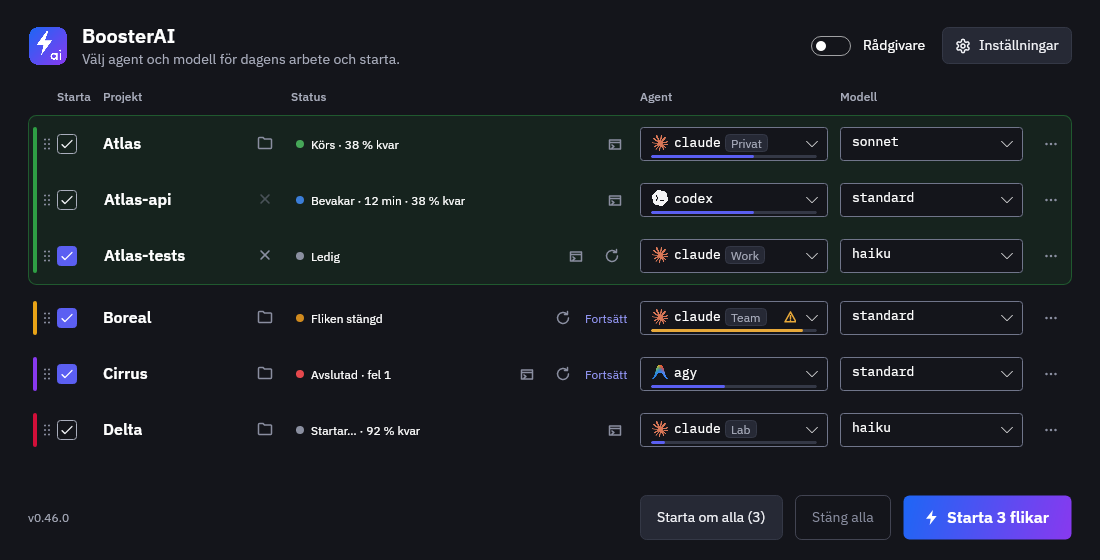
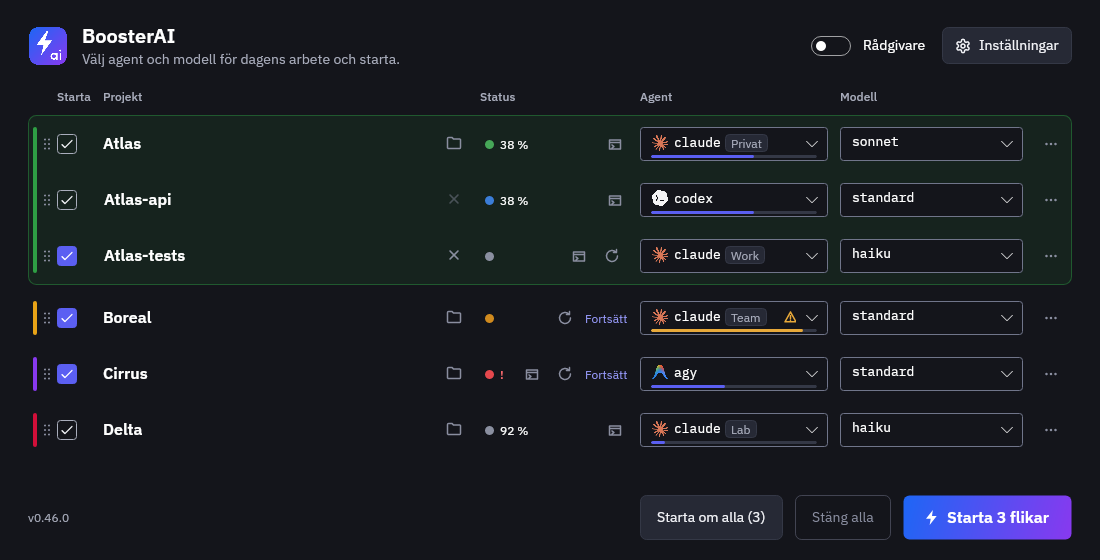
Compact status column: a status dot with details on hover (#209)
The Status column is now a narrow fixed column (160 px) and the project
column takes all the free width. Each row shows a coloured status dot,
followed by the remaining plan share ("38 %" / "38%", warning colour from
80 % used) on live tabs with a known limit, "!" on error rows (CLI exited
with an error, missing, not started, denied, lost) or "…" while closing
or waiting to restart. The show-in-terminal icon (#213), restart, Continue
and Start stay at the column's right edge. Hover, click or Enter/Space
opens the status popup as before; the accessible name keeps the full
status with the remaining share.

--check-clipping also reports a status cell whose indicator and actions
do not fit side by side. README, DETAILS, screenshots and verification
images updated.

diff --git a/docs/index.html b/docs/index.html
@@ -770,7 +770,7 @@
             <div style="width: 20px;"></div>
           </div>
           <div class="showcase-media-container">
-            <img id="previewImg" class="showcase-media" src="screenshot-dark.png?v=20261125-202" alt="BoosterAI with six AI CLIs selected across example project tabs, two Claude tabs showing their account label and usage meter">
+            <img id="previewImg" class="showcase-media" src="screenshot-dark.png?v=20261125-209" alt="BoosterAI with six AI CLIs selected across example project tabs, two Claude tabs showing their account label and usage meter">
           </div>
         </div>
       </div>
@@ -1010,8 +1010,8 @@
       };
       img.alt = descriptions[mode] || 'BoosterAI app screenshot';
       setTimeout(() => {
-        if (mode === 'dark') img.src = 'screenshot-dark.png?v=20261125-202';
-        else if (mode === 'light') img.src = 'screenshot.png?v=20261125-202';
+        if (mode === 'dark') img.src = 'screenshot-dark.png?v=20261125-209';
+        else if (mode === 'light') img.src = 'screenshot.png?v=20261125-209';
         else if (mode === 'settings') img.src = 'settings-general.png?v=20261124-195';
         else if (mode === 'appearance') img.src = 'settings-appearance.png?v=20261124-195';
         else if (mode === 'memory') img.src = 'settings-ram.png?v=20261124-195';

diff --git a/src/BoosterAI/ViewModels.cs b/src/BoosterAI/ViewModels.cs
@@ -97,7 +97,7 @@ public sealed class TabViewModel : Observable
         PropertyChanged += (_, e) =>
         {
             if (e.PropertyName is nameof(Name) or nameof(Llm) or nameof(StatusText) or nameof(Account)) Raise(nameof(PeekHeader));
-            if (e.PropertyName is nameof(StatusText)) Raise(nameof(StatusDisplay));
+            if (e.PropertyName is nameof(StatusText)) { Raise(nameof(StatusDisplay)); RaiseStatusIndicator(); }
             if (e.PropertyName is nameof(StatusText) or nameof(StatusTip)) { Raise(nameof(PeekDetail)); Raise(nameof(HasPeekDetail)); }
         };
     }
@@ -391,6 +391,7 @@ public sealed class TabViewModel : Observable
         Raise(nameof(AgentChoices));
         Raise(nameof(SelectedAgentChoice));
         foreach (var n in new[] { nameof(HasPeekLimit), nameof(PeekLimitWarn), nameof(PeekLimitRows), nameof(PeekLimitAge), nameof(HasPeekLimitAge), nameof(PeekLimitName), nameof(StatusDisplay), nameof(PeekLimitMissing), nameof(HasPeekLimitMissing) }) Raise(n);
+        RaiseStatusIndicator();
     }
     public IReadOnlyList<string> Models => Catalog.ModelsFor(_llm);
     public bool IsAi => _llm != Catalog.ShellOnly;
@@ -587,6 +588,7 @@ public sealed class TabViewModel : Observable
     private void RaiseRestart()
     {
         foreach (var n in new[] { nameof(IsChanged), nameof(CanRestart), nameof(RestartTip), nameof(PendingRestart), nameof(StatusActionName), nameof(CanContinueClosed), nameof(CanReloadOrchestra), nameof(ShowReload), nameof(ReloadName), nameof(CanStart), nameof(ShowStatusColumn) }) Raise(n);
+        RaiseStatusIndicator();
         _owner.RestartableChanged();
     }
     /// <summary>The programs of the commands agy denied (state Denied).</summary>
@@ -628,16 +630,40 @@ public sealed class TabViewModel : Observable
     public string PeekLimitMissing => _llm != "agy" || !_owner.AccountLimitsEnabled || PeekLimit is not null || !ShowStatusRemaining ? ""
         : Loc.Get(Session is { } session && Track is { } track && session.HasAgySettings(track.Id) ? "account.limit.missing.agy.pending" : "account.limit.missing.agy.restart");
     public bool HasPeekLimitMissing => PeekLimitMissing.Length > 0;
-    public string StatusActionName => Loc.Format("peek.action", Name, StatusTip);
+    /// <summary>The status indicator's accessible name: the full status (tip), with the remaining share when the indicator shows it (#209).</summary>
+    public string StatusActionName => Loc.Format("peek.action", Name, WithRemaining(StatusTip));
 
     /// <summary>
-    /// The status column's visible text (#207): on normal live/starting/idle tabs, appends remaining quota percentage
-    /// ("Körs · 38 % kvar" / "Running · 38% left") when the tab's agent/account has a known limit; closed, error,
-    /// changed-choice and auto-cleared rows keep their full status/action text unclipped beside ↻/Continue.
+    /// The full status with the remaining quota (#207): on normal live/starting/idle tabs with a known limit
+    /// "Körs · 38 % kvar" / "Running · 38% left"; other rows keep their plain status. The main list shows only the
+    /// compact <see cref="StatusIndicatorText"/> (#209); this text is what it stands for.
     /// </summary>
-    public string StatusDisplay => StatusText is { Length: > 0 } text && ShowStatusRemaining && PeekLimit is { } limit
-        ? Loc.Format("tabstate.withRemaining", text, limit.RemainingCaption)
-        : StatusText;
+    public string StatusDisplay => WithRemaining(StatusText);
+
+    private string WithRemaining(string status) => status is { Length: > 0 } && ShowStatusRemaining && PeekLimit is { } limit
+        ? Loc.Format("tabstate.withRemaining", status, limit.RemainingCaption)
+        : status;
+
+    /// <summary>
+    /// The compact status column's text beside the status dot (#209): the remaining share of the tightest known window on
+    /// live, idle, watching and starting tabs ("38 %" / "38%"), "!" on an error row so colour is not the only cue, "…" while
+    /// the tab closes or waits for idle to restart, and nothing otherwise. The full status is in the popup and the accessible name.
+    /// </summary>
+    public string StatusIndicatorText =>
+        _closeProgress is not null || (_state is TabState.Running && PendingRestart) ? "…"
+        : IsStatusError ? "!"
+        : ShowStatusRemaining && PeekLimit is { } limit ? limit.RemainingShort
+        : "";
+    public bool HasStatusIndicatorText => StatusIndicatorText.Length > 0;
+    /// <summary>A failed row: the CLI exited with an error, is missing, did not start, was denied or the tab was lost (#209).</summary>
+    public bool IsStatusError => _closeProgress is null && (IsExitError || _state is TabState.CliMissing or TabState.NotStarted or TabState.Lost or TabState.Denied);
+    /// <summary>The remaining share is shown in the warning colour from <see cref="LimitIndicator.WarnAt"/> percent used.</summary>
+    public bool StatusIndicatorWarn => !IsStatusError && StatusIndicatorText.Length > 0 && StatusIndicatorText != "…" && PeekLimit?.Warn == true;
+
+    private void RaiseStatusIndicator()
+    {
+        foreach (var n in new[] { nameof(StatusIndicatorText), nameof(HasStatusIndicatorText), nameof(IsStatusError), nameof(StatusIndicatorWarn), nameof(StatusActionName) }) Raise(n);
+    }
 
     private bool ShowStatusRemaining => _closeProgress is null && _state switch
     {

diff --git a/tests/BoosterAI.Tests/AccountLimitsTests.cs b/tests/BoosterAI.Tests/AccountLimitsTests.cs
@@ -1118,4 +1118,88 @@ public class AccountLimitsTests
         }
         finally { Loc.Use(previous); }
     }
+
+    [Fact]
+    public void CompactStatusIndicatorShowsRemainingPercentAnErrorCueOrNothing()
+    {
+        var previous = Loc.Language;
+        try
+        {
+            var r = BoosterAI.Tests.UiSession.Run(() =>
+            {
+                Loc.Use("sv");
+                var now = DateTimeOffset.Now;
+                var used = 95.0;
+                var vm = new MainViewModel(new AppConfig
+                {
+                    Accounts = [new() { Id = "claude-work", Agent = "claude", Name = "Work", Directory = "~/.claude-work" }],
+                    Tabs =
+                    [
+                        new() { Name = "A", Directory = "/srv/a", Llm = "claude" },
+                        new() { Name = "B", Directory = "/srv/b", Llm = "claude", Account = "claude-work" },
+                        new() { Name = "C", Directory = "/srv/c", Llm = "aider" },
+                    ],
+                });
+                vm.LimitsClock = () => now;
+                vm.AccountLimitsEnabled = true;
+                vm.ReadAccountLimits = (_, _, dir) => Task.FromResult(
+                    dir is null ? new AccountLimits(null, new LimitWindow(used, now.AddDays(3), 10080), null, now) : AccountLimits.Unknown);
+                var (a, b, c) = (vm.Tabs[0], vm.Tabs[1], vm.Tabs[2]);
+                foreach (var t in vm.Tabs) t.SetState(TabState.Running, null, activity: BoosterAI.Activity.Busy);
+                Assert.True(vm.RefreshAccountLimitsAsync(force: true).IsCompletedSuccessfully);
+                Avalonia.Threading.Dispatcher.UIThread.RunJobs();
+
+                var warn = (a.StatusIndicatorText, a.StatusIndicatorWarn, a.IsStatusError, a.StatusActionName);
+                var unknown = (b.StatusIndicatorText, b.HasStatusIndicatorText);
+                var aider = (c.StatusIndicatorText, c.HasStatusIndicatorText);
+                Loc.Use("en");
+                var warnEn = (a.StatusIndicatorText, a.StatusActionName);
+                Loc.Use("sv");
+
+                used = 0.0;
+                Assert.True(vm.RefreshAccountLimitsAsync(force: true).IsCompletedSuccessfully);
+                Avalonia.Threading.Dispatcher.UIThread.RunJobs();
+                var reset = (a.StatusIndicatorText, a.StatusIndicatorWarn);
+
+                a.PendingRestart = true;
+                var pending = (a.StatusIndicatorText, a.StatusIndicatorWarn, a.IsStatusError);
+                a.PendingRestart = false;
+                a.SetCloseProgress("Sparar…");
+                var closing = (a.StatusIndicatorText, a.IsStatusError);
+                a.SetCloseProgress(null);
+
+                a.SetState(TabState.Closed, null);
+                var closed = (a.StatusIndicatorText, a.HasStatusIndicatorText, a.IsStatusError);
+                a.SetState(TabState.CliExited, 0);
+                var exitedOk = a.StatusIndicatorText;
+                a.SetState(TabState.CliExited, 1);
+                var exitedErr = (a.StatusIndicatorText, a.IsStatusError, a.StatusIndicatorWarn);
+                a.SetState(TabState.Denied, null, ["git"]);
+                var denied = (a.StatusIndicatorText, a.IsStatusError);
+                a.SetState(TabState.Lost, null);
+                var lost = (a.StatusIndicatorText, a.IsStatusError);
+                a.SetState(TabState.CliMissing, null);
+                var missing = (a.StatusIndicatorText, a.IsStatusError);
+                return (warn, warnEn, unknown, aider, reset, pending, closing, closed, exitedOk, exitedErr, denied, lost, missing);
+            });
+
+            Assert.Equal(("5 %", true, false), (r.warn.StatusIndicatorText, r.warn.StatusIndicatorWarn, r.warn.IsStatusError));
+            // The accessible name keeps the full status with the remaining share.
+            Assert.Contains("Körs · 5 % kvar", r.warn.StatusActionName);
+            Assert.Equal("5%", r.warnEn.StatusIndicatorText);
+            Assert.Contains("Running · 5% left", r.warnEn.StatusActionName);
+            Assert.Equal(("", false), r.unknown);
+            Assert.Equal(("", false), r.aider);
+            Assert.Equal(("100 %", false), r.reset);
+            Assert.Equal(("…", false, false), r.pending);
+            Assert.Equal(("…", false), r.closing);
+            Assert.Equal(("", false, false), r.closed);
+            Assert.Equal("100 %", r.exitedOk);
+            Assert.Equal(("!", true, false), r.exitedErr);
+            Assert.Equal(("!", true), r.denied);
+            Assert.Equal(("!", true), r.lost);
+            Assert.Equal(("!", true), r.missing);
+        }
+        finally { Loc.Use(previous); }
+    }
 }

diff --git a/src/BoosterAI/MainWindow.axaml.cs b/src/BoosterAI/MainWindow.axaml.cs
@@ -24,16 +24,18 @@ public partial class MainWindow : Window
     }
 
     /// <summary>
-    /// Stripe, handle, Start, project, status, agent, model, orchestra, ⋯. Project and status share the free room (2.7:5 since the show-terminal icon, #213), the
-    /// status a little more (its longest texts must fit at the default width); agent, model and orchestra are fixed,
-    /// and the orchestra column is 0 while no visible row can use it (#152). The row's ⋯ stays last, at the far right (#196).
+    /// Stripe, handle, Start, project, status, agent, model, orchestra, ⋯. The project takes all the free room; the status is a
+    /// narrow fixed column with a compact indicator and the row actions, its details in the popup (#209); agent, model and
+    /// orchestra are fixed, and the orchestra column is 0 while no visible row can use it (#152). The row's ⋯ stays last (#196).
     /// </summary>
     internal static string ProjectColumns(double width, bool orchestra)
     {
         var compact = width is > 0 and < 1050;
         var fixedColumns = compact ? "150,140" : "200,195";
-        return $"4,20,46,2.7*,5*,{fixedColumns},{(orchestra ? 168 : 0)},{MoreColumnWidth}";
+        return $"4,20,46,*,{StatusColumnWidth},{fixedColumns},{(orchestra ? 168 : 0)},{MoreColumnWidth}";
     }
+
+    internal const int StatusColumnWidth = 160;
 
     internal const int MoreColumnWidth = 32;
 

diff --git a/src/BoosterAI/Screenshot.cs b/src/BoosterAI/Screenshot.cs
@@ -307,6 +307,19 @@ internal static class Screenshot
                 .Where(t => t.IsEffectivelyVisible && t.TextTrimming != Avalonia.Media.TextTrimming.None
                     && t.TextLayout.TextLines.Any(l => l.HasCollapsed))
                 .Select(t => t.Text).ToList();
+            // The compact status column (#209) clips its cell: the indicator and the row actions must fit in it side by side.
+            // Each part is measured unconstrained, as the cell's star column would otherwise squeeze the indicator to nothing.
+            foreach (var cell in window.GetVisualDescendants().OfType<Grid>().Where(g => g.Classes.Contains("status-cell") && g.IsEffectivelyVisible).ToList())
+            {
+                var needed = 0.0;
+                foreach (var part in cell.Children.Where(c => c.IsVisible))
+                {
+                    part.Measure(Size.Infinity);
+                    needed += part.DesiredSize.Width;
+                }
+                if (needed > cell.Bounds.Width + 0.5)
+                    clipped.Add($"status column ({needed:0} > {cell.Bounds.Width:0} px): {(cell.DataContext as TabViewModel)?.StatusText}");
+            }
             foreach (var text in clipped) Console.WriteLine("clipped: " + text);
             if (clipped.Count > 0) return 3;
         }

diff --git a/tests/BoosterAI.Tests/MainListTests.cs b/tests/BoosterAI.Tests/MainListTests.cs
@@ -84,10 +84,11 @@ public sealed class MainListTests : IDisposable
     [Fact]
     public void ProjectColumnsHideTheOrchestraAndKeepTheFixedWidths()
     {
-        // The row's ⋯ (#196) stays last, at the far right, whether or not the orchestra column shows.
-        Assert.Equal("4,20,46,2.7*,5*,200,195,168,32", MainWindow.ProjectColumns(1100, orchestra: true));
-        Assert.Equal("4,20,46,2.7*,5*,200,195,0,32", MainWindow.ProjectColumns(1100, orchestra: false));
-        Assert.EndsWith(",168,32", MainWindow.ProjectColumns(900, orchestra: true));
+        // The project takes all the free room and the status is a narrow fixed column (#209); the row's ⋯ (#196) stays
+        // last, at the far right, whether or not the orchestra column shows.
+        Assert.Equal("4,20,46,*,160,200,195,168,32", MainWindow.ProjectColumns(1100, orchestra: true));
+        Assert.Equal("4,20,46,*,160,200,195,0,32", MainWindow.ProjectColumns(1100, orchestra: false));
+        Assert.Equal("4,20,46,*,160,150,140,168,32", MainWindow.ProjectColumns(900, orchestra: true));
     }
 
     [Fact]

diff --git a/src/BoosterAI/AccountLimits.cs b/src/BoosterAI/AccountLimits.cs
@@ -66,6 +66,9 @@ public sealed record LimitIndicator(string Caption, bool Warn, string Tip, strin
     /// <summary>Localized remaining text for the status column (#207): "38 % kvar" (sv) or "38% left" (en).</summary>
     public string RemainingCaption => Loc.Format("account.limit.remaining", Loc.Number(RemainingPercent, "0"));
 
+    /// <summary>The compact status column's remaining share (#209): "38 %" (sv) or "38%" (en).</summary>
+    public string RemainingShort => Loc.Format("account.limit.chip", Loc.Number(RemainingPercent, "0"));
+
     public static LimitIndicator? For(AccountLimits limits, DateTimeOffset now)
     {
         limits = limits.AsOf(now);

diff --git a/docs/DETAILS.md b/docs/DETAILS.md
@@ -32,7 +32,7 @@ Every account row shows its login status, also the default account (#192): *Logg
 
 Every account row also shows the plan limits BoosterAI could read for the account (#199): a thin bar and *37 % used · resets in 4h 20m (14:20)* for the short window (*5 h*) and the *Week*, credits for Codex (*Credits: 120*, *unlimited* or *none*), and *updated 8m ago* for when the agent reported the values (see [Times](#times)). A window without a value, or an account nothing has been read for yet, shows *Unknown* without a bar, never a guessed 0 %; a window that was read but whose reset time has passed since shows *Probably reset* (#214). The values are read when the Accounts page opens and when the Settings window is activated, like the login status, in the tab's login shell (`bash -lic`, through `wsl.exe` on Windows) with a limit of about 10 seconds. BoosterAI only reads local files: it never contacts the provider, reads no credentials or tokens, and saves nothing beyond Claude's small snapshot below. The read prints one projected JSON line (window percentages, reset times, window lengths, credits, time), never file contents. It needs `python3` in that Linux; without it everything is *Unknown*.
 
-The main window shows the same reading without reading more (#200, #205, #206): one reading per account/agent is shared between Settings and the main window, read when the main window is activated or a monitored tab changes activity (at most every 5 seconds), every 30 seconds while it is visible, and once at start, for the agents that tabs use (Claude, Codex and AGY). Installed Claude, Codex and AGY agents that no tab uses are read too, with all their accounts, at start and then at most every 5 minutes (#214), so the Agent list also knows an account no tab uses; before the first setup check every one of them counts as installed. In the Agent box's dropdown, each Claude, Codex or AGY entry with a known window ends with the higher of the 5 h and weekly use (*62 %*); from 80 % it also has a warning icon. The closed box shows a thin usage meter along its bottom edge for the tab's account/agent (#202, #206), always while a window is known and filled to the same higher use, so it fills up before any warning; from 80 % the meter turns to the warning colour and a small warning icon appears beside the agent (accessible name *close to the limit*), so colour is never the only cue. The meter and the icon have the same tooltip: both windows with their use and when they reset, and *updated 8m ago*. The meter lies over the box's padding, so neither the box nor the row grows, and every row's track has the same length; an *Unknown* account or agent shows no meter, never an empty bar that could read as 0 %. Pressing the meter opens the box. On active, idle, watching and starting tabs with a known limit, the **Status** column also appends the remaining percentage of the tightest window (*Running · 38% left* / *Körs · 38 % kvar*, #207); *Unknown*, non-limit agents and closed/error rows keep their plain status text. The tab's status popup has a small *Plan limits* table for claude, codex and agy tabs (#210), headed by *updated 8m ago*. Each window has its own row: the label (*5 h*, *Week*), a meter of the **remaining** share, the remaining percentage in bold (*63% left*), the used percentage muted (*37% used*) and the reset time (*resets in 2h 37m (18:20)*), so it is clear which is which. A missing window shows only *Unknown*, without a meter. From 80 % used, the row's meter and percentage take the warning colour and a warning icon, and its accessible name ends with *close to the limit*. Agents without limits and *Unknown* accounts show nothing.
+The main window shows the same reading without reading more (#200, #205, #206): one reading per account/agent is shared between Settings and the main window, read when the main window is activated or a monitored tab changes activity (at most every 5 seconds), every 30 seconds while it is visible, and once at start, for the agents that tabs use (Claude, Codex and AGY). Installed Claude, Codex and AGY agents that no tab uses are read too, with all their accounts, at start and then at most every 5 minutes (#214), so the Agent list also knows an account no tab uses; before the first setup check every one of them counts as installed. In the Agent box's dropdown, each Claude, Codex or AGY entry with a known window ends with the higher of the 5 h and weekly use (*62 %*); from 80 % it also has a warning icon. The closed box shows a thin usage meter along its bottom edge for the tab's account/agent (#202, #206), always while a window is known and filled to the same higher use, so it fills up before any warning; from 80 % the meter turns to the warning colour and a small warning icon appears beside the agent (accessible name *close to the limit*), so colour is never the only cue. The meter and the icon have the same tooltip: both windows with their use and when they reset, and *updated 8m ago*. The meter lies over the box's padding, so neither the box nor the row grows, and every row's track has the same length; an *Unknown* account or agent shows no meter, never an empty bar that could read as 0 %. Pressing the meter opens the box. On active, idle, watching and starting tabs with a known limit, the compact **Status** column shows the remaining percentage of the tightest window beside the status dot (*38%* / *38 %*, #207, #209), in the warning colour from 80 % used; the dot's accessible name has the full status with it (*Running · 38% left*). *Unknown*, non-limit agents and closed/error rows show no percentage. The tab's status popup has a small *Plan limits* table for claude, codex and agy tabs (#210), headed by *updated 8m ago*. Each window has its own row: the label (*5 h*, *Week*), a meter of the **remaining** share, the remaining percentage in bold (*63% left*), the used percentage muted (*37% used*) and the reset time (*resets in 2h 37m (18:20)*), so it is clear which is which. A missing window shows only *Unknown*, without a meter. From 80 % used, the row's meter and percentage take the warning colour and a warning icon, and its accessible name ends with *close to the limit*. Agents without limits and *Unknown* accounts show nothing.
 
 **Low-quota warning (#211).** Settings → General has **Warn when quota drops below [N] % left** (`QuotaWarn`, on by default like *Notifications*, and `QuotaWarnPercent`, default 5, allowed 1–50 in `config.json`). When a Claude, Codex or AGY plan window (*5 h* or *Week*) of an account has fewer than N % left after a reading, the main window shows a quiet bar among the banners (no dialog, no focus change, no system notification) such as *claude (Work), 5 h: 4% left, resets in 1h 37m (17:40)* (account name only when the agent has several accounts; reset time as in [Times](#times)). The percentage compared is the rounded one shown, so exactly N % is not below. Accounts that no tab uses are checked too (#214), so a maxed account warns once even without a tab. Each agent, account and window warns once: it warns again only after the window has reset (a different reset time) or after a reading with N % or more left. Unknown readings and windows that have already reset change nothing; a window that is already below the threshold at the first reading warns once. Closing a bar does not re-arm it, and at most four bars are shown (a newer one for the same window replaces the older). Turning the setting off shows no bars and keeps no history. The check runs on the same readings as the Agent boxes and the Accounts page, so it follows their refresh cadence and only covers accounts BoosterAI can read.
 
@@ -57,7 +57,7 @@ Every time BoosterAI shows is human-readable in the UI language (#208), in the l
 - **Reset times** count down within 24 hours with the clock: *in 35m (14:55)*, *in 1h 10m (15:30)* (Swedish *om 35 min (14:55)*, *om 1 h 10 min (15:30)*); later they name the day: *tomorrow 09:00*, the full weekday for the next six days (*Friday 10:00*, *fredag 10:00*), then the date (*Dec 5 10:00*, *5 dec 10:00*), with the year from about six months away.
 - **Read times** (when the agent reported the limits) read *updated just now* within a minute, *updated 8m ago* within the hour (*avläst nyss*, *avläst för 8 min sedan*), then *today 09:45*, *yesterday 18:10*, a weekday or a date as above.
 - **Durations** above 59 minutes use hours: *Watching · 1h 15m* (*Bevakar · 1 h 15 min*), not *75 min*.
-- **Tooltips** of *Watching* and of an auto-clear give the moment with its day (*today 14:20*, *yesterday 23:40*, *Friday 10:00*). The status column itself keeps the short clock (*Idle · cleared 14:20*).
+- **Tooltips** of *Watching* and of an auto-clear give the moment with its day (*today 14:20*, *yesterday 23:40*, *Friday 10:00*). The status itself keeps the short clock (*Idle · cleared 14:20*), shown in the status popup and the status dot's accessible name.
 
 ## Terminal window placement
 
@@ -125,7 +125,7 @@ BoosterAI speaks Swedish and English. By default it follows the operating system
 
 [Dirigenten och orkestern](https://github.com/solwation/dirigenten-och-orkestern) lets AI agents work through a project's GitHub issues. A conductor picks issues by priority, hands them to parallel worker agents in their own checkouts, then reviews and delivers the results.
 
-Each row with the orchestra installed has one **Orchestra** choice: *Off*, *Orchestra* (sends `/orkester` as the first prompt) or *Orchestra, once* (see Run once below). In `config.json` these are the same two settings as before: `"Orkester"` and `"NonInteractive"`; *Off* leaves a stored `"NonInteractive"` untouched, as it is ignored while the orchestra is off. Projects without the orchestra show an "Install" link instead, on the project row only (subtabs share its folder, #197): a dialog explains what will happen, then the AI you chose opens in a new tab and installs it, asking you about the rules before it commits anything. While no visible row can use or install the orchestra (plain shells, or folders not checked yet), the column and its header are hidden and the status column gets the room. The check repeats about every 45 seconds while the main window is visible and not minimized, and when the window is activated, so an orchestra installed or removed outside the app shows up without restarting; a directory whose check is still running is skipped.
+Each row with the orchestra installed has one **Orchestra** choice: *Off*, *Orchestra* (sends `/orkester` as the first prompt) or *Orchestra, once* (see Run once below). In `config.json` these are the same two settings as before: `"Orkester"` and `"NonInteractive"`; *Off* leaves a stored `"NonInteractive"` untouched, as it is ignored while the orchestra is off. Projects without the orchestra show an "Install" link instead, on the project row only (subtabs share its folder, #197): a dialog explains what will happen, then the AI you chose opens in a new tab and installs it, asking you about the rules before it commits anything. While no visible row can use or install the orchestra (plain shells, or folders not checked yet), the column and its header are hidden and the project column gets the room. The check repeats about every 45 seconds while the main window is visible and not minimized, and when the window is activated, so an orchestra installed or removed outside the app shows up without restarting; a directory whose check is still running is skipped.
 
 ### Reload an idle orchestra
 
@@ -397,7 +397,9 @@ When something unexpected happens (a tab closes, does not start, or its CLI exit
 
 How it works: each Start creates a session folder (`%LOCALAPPDATA%\BoosterAI\sessions\…` on Windows, which WSL writes to through `/mnt/c`, or `~/.local/share/BoosterAI/sessions/…` on Linux) containing a small `tab-lib.sh`. Each tab's shell sources that script, and it appends `start` (PID and start time), `cli-start`, `cli-exit rc=N` and `exit` to the tab's log. Interactive commands run through `script`, which records their output timing (the activity). The wrapper keeps `~/.bashrc` aliases and shell functions available. If the library cannot be loaded, the CLI (including Run once) or plain shell still starts in its project directory without tracking or status hooks, and leaves a normal shell afterwards. Aliases, arguments and explicit continuation are kept; Run once uses plain CLI output instead of the stream formatter. No status log is fabricated, so BoosterAI cannot monitor or restart that fallback shell in place. The app polls the logs every 2 seconds. A shell that is gone without logging `exit` (for example after `wsl --shutdown`) counts as *Lost*. Windows detects this through `\\wsl.localhost\<distro>\proc`. Session folders older than two days are removed.
 
-**Status popup.** Hovering a tab's status (dot and text), or focusing it with Tab and pressing Enter/Space, opens a compact popup (430 px wide, readable in light and dark) with the tab's name, agent and status, the longer explanation when the status tip says more than the status itself (for example what *Watching* means), the account's plan limits table (#200, #210) and, for a live AGY tab without limits, why they are missing (#212). After a CLI exit with an error, a click or Enter opens it with *Restart* (↻) as its primary action. It shows no terminal text and BoosterAI neither captures nor reads a tab's output for it (#216). Keyboard-opened details stay open and scroll at small window sizes; Escape closes them and restores focus to the status control. Activating this control never starts a tab. Nothing is refreshed while the popup is open: it shows the state when it opened.
+**Compact status column.** The **Status** column is narrow and fixed (160 px, #209); the project column takes all the free width. Each row shows its status as a coloured dot, followed by the remaining plan share on a live tab with a known limit (*38%*, see [Accounts](#accounts-per-agent)), *!* on an error row (the CLI exited with an error, is missing, the tab did not start, was denied or lost) so colour is never the only cue, or *…* while the tab closes or waits for idle to restart; other rows show only the dot. The row actions follow at the column's right edge: show in the terminal (#213), ↻, *Continue* or the start triangle. The full status text is in the popup below and in the dot's accessible name.
+
+**Status popup.** Hovering a tab's status dot, or focusing it with Tab and pressing Enter/Space, opens a compact popup (430 px wide, readable in light and dark) with the tab's name, agent and status, the longer explanation when the status tip says more than the status itself (for example what *Watching* means), the account's plan limits table (#200, #210) and, for a live AGY tab without limits, why they are missing (#212). After a CLI exit with an error, a click or Enter opens it with *Restart* (↻) as its primary action. It shows no terminal text and BoosterAI neither captures nor reads a tab's output for it (#216). Keyboard-opened details stay open and scroll at small window sizes; Escape closes them and restores focus to the status control. Activating this control never starts a tab. Nothing is refreshed while the popup is open: it shows the state when it opened.
 
 The only output-related file BoosterAI reads is `tabN.timing`, which util-linux `script` touches on every write (`--log-timing`; the output itself is not logged): the activity fallback ("Running" while output arrives, "Idle" after 60 seconds), auto-clear's output check (#71) and the orchestra reload's quiet check use its modification time. Nothing reads the last lines, so neither the closing/save flow nor the "CLI exited" error display depends on them; the exit code comes from the log (`cli-exit rc=N`).
 

diff --git a/README.md b/README.md
@@ -14,10 +14,10 @@ Start your whole working day with one click: BoosterAI opens every project you w
 - **One click, all your workspaces:** Opens each repository in its own color-coded tab in the right directory. Add subtabs sharing a folder for multi-agent workflows from a row's **⋯** menu; a project and its subtabs show as one colour-tinted group, and a tab that has not been opened yet (such as a new subtab) starts on its own from its row (▷) into the open terminal window.
 - **Model control:** Pick a model per tab, and for Claude an optional per-project advisor model (`--advisor`; Opus or Fable, only beside a Sonnet or Haiku model so the cost is not doubled; *Off* is the default and also disables a saved Claude advisor for that tab) below Agent and Model in the project row, shown with the **Advisor** switch left of Settings (visible while a project runs Claude; a project with an advisor chosen always shows its row). The choice applies to the project tab and its Claude subtabs. Interactive Claude, Codex and Aider tabs can resume after a model change when no other tab shares their CLI and folder; see the [conversation limits](docs/DETAILS.md#multiple-tabs-for-one-project).
 - **Agent overview:** Recognize each CLI by its icon; manage installation, permissions and context in separate settings sections. Choosing a permission alias asks for confirmation at once, and *Done* asks before discarding unsaved context or memory-limit changes. [Details](docs/DETAILS.md#agent-versions-and-permission-modes)
-- **Several accounts:** Keep a private and a work login for Claude Code (`CLAUDE_CONFIG_DIR`) or Codex (`CODEX_HOME`). Add accounts and log in to each in Settings → AI agents, where every account, the default one too, shows whether it is logged in and how much of its 5-hour and weekly limits (and Codex credits) it has used, as far as the agent has reported it locally (on the main page each Claude, Codex or AGY row's Agent box has a thin meter filled to the higher of the two, in the warning colour with a warning icon from 80 %, active tabs also show the remaining percentage in the Status column such as *Running · 38% left*, the Agent list shows the used percentage per account/agent, and a tab's status popup shows both windows in a small table with the remaining and used percentage, a meter and the reset time); the default account can be renamed (for example *Private*). On the main page agent and account are chosen in one **Agent** box, and a small label after the agent shows which account a tab uses (visible in the picture above). [How accounts work](docs/DETAILS.md#accounts-per-agent).
+- **Several accounts:** Keep a private and a work login for Claude Code (`CLAUDE_CONFIG_DIR`) or Codex (`CODEX_HOME`). Add accounts and log in to each in Settings → AI agents, where every account, the default one too, shows whether it is logged in and how much of its 5-hour and weekly limits (and Codex credits) it has used, as far as the agent has reported it locally (on the main page each Claude, Codex or AGY row's Agent box has a thin meter filled to the higher of the two, in the warning colour with a warning icon from 80 %, active tabs also show the remaining percentage beside their status dot in the compact Status column, such as *38%*, the Agent list shows the used percentage per account/agent, and a tab's status popup shows both windows in a small table with the remaining and used percentage, a meter and the reset time); the default account can be renamed (for example *Private*). On the main page agent and account are chosen in one **Agent** box, and a small label after the agent shows which account a tab uses (visible in the picture above). [How accounts work](docs/DETAILS.md#accounts-per-agent).
 - **Context budgets:** Choose Off, Clear when idle or Summarize in Memory and context → Context. Summarize offers Auto or Manual budgets; the illustrated Auto guide explains model capacity and task reserves. Tune individual agents in Manual. [How budgets work](docs/DETAILS.md#auto-compaction-budgets).
 - **Local models:** Open Settings → AI agents → **Local models** to compare downloadable models, get a hardware-based starting suggestion and download a chosen model through a local Ollama server. Agent programs and model downloads have separate interfaces. Existing exact-model assessment remains available on the agent pages. [Evidence and limits](docs/DETAILS.md#local-model-hardware-advice).
-- **Status Peek:** Hover any tab's status badge, or focus it and press Enter/Space, for a compact popup with the status, what it means and the account's plan limits &mdash; never break focus to check if an agent is done.
+- **Status Peek:** The narrow Status column shows each tab as a coloured dot, with the remaining plan share (*38%*) or *!* on an error, so project names get the room. Hover the dot, or focus it and press Enter/Space, for a compact popup with the status, what it means and the account's plan limits &mdash; never break focus to check if an agent is done.
 - **Orchestra on demand:** Native integration with [Dirigenten och orkestern](https://github.com/solwation/dirigenten-och-orkestern) for unattended autonomous queue execution. Reload an idle Claude orchestra in its existing conversation without restarting its tab. Its status refreshes automatically.
 - **WSL memory guard:** Live RAM telemetry, 30-minute min/avg/max tracking, and memory cap tuning directly in Settings.
 - **Graceful end-of-day close:** *Close all* requests saving, committing and pushing from Claude, Codex, AGY and Aider. Other CLIs and ambiguous shared-folder sessions need [manual handling](docs/DETAILS.md#watching-the-tabs).
